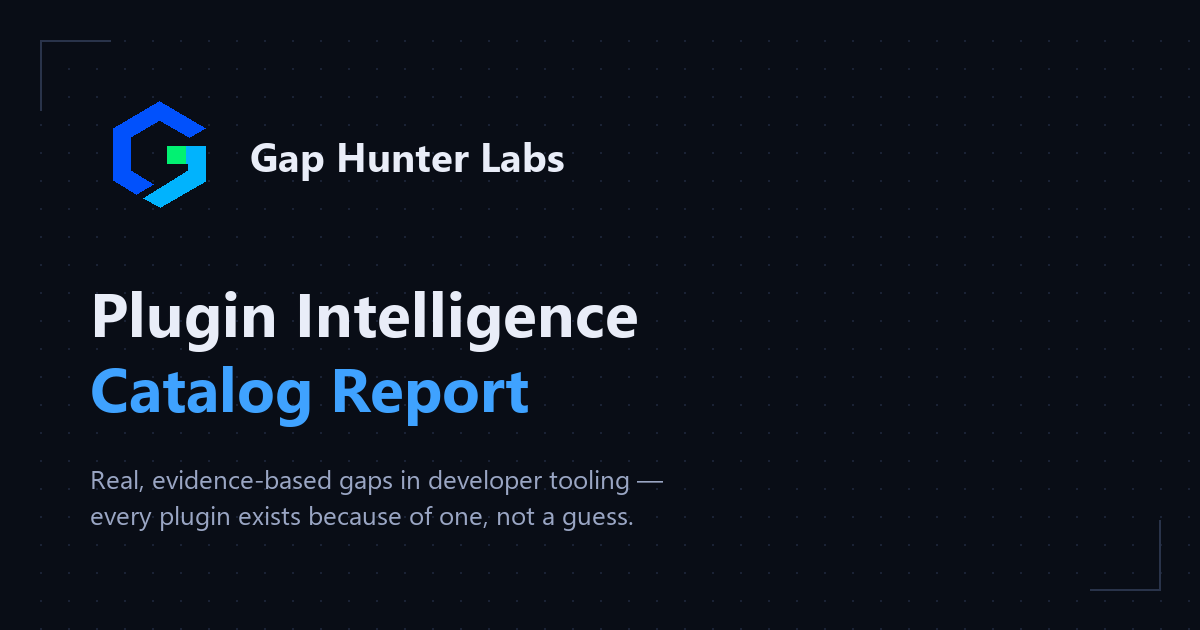
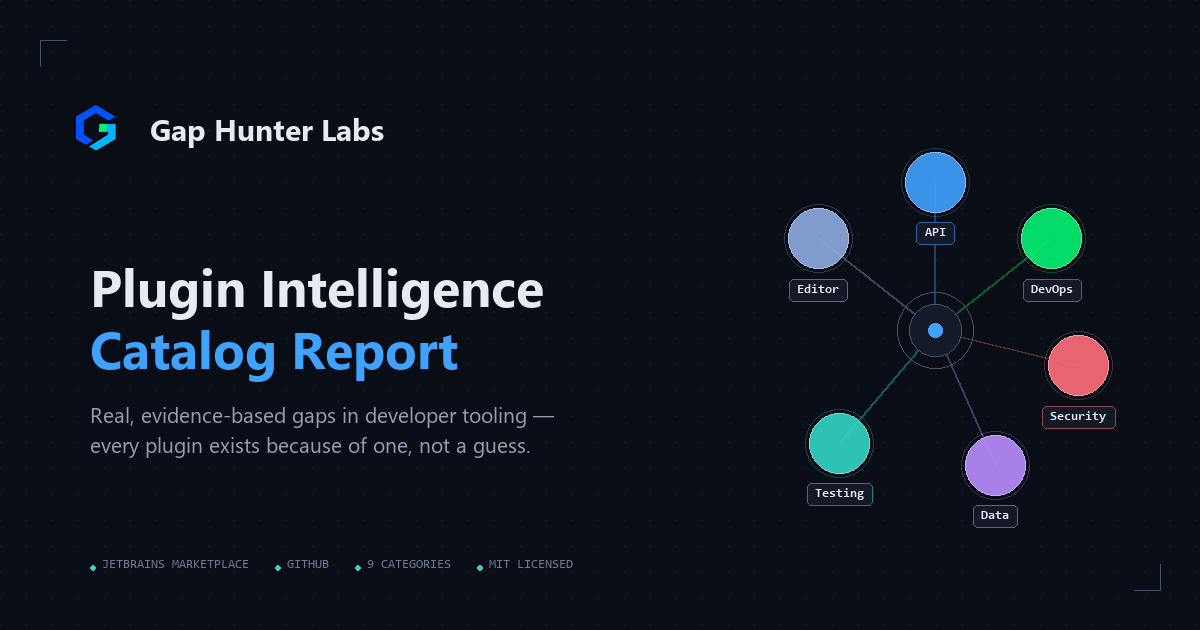
Redesign og-image.png -- fill the empty half seen in real WhatsApp preview
User shared a real WhatsApp link-preview screenshot showing the card's
right/bottom half essentially empty -- just brand mark + headline on
the left, bare dot-grid everywhere else.

New layout, still deliberately atemporal (no live catalog numbers
baked in, same reasoning as the original 2026-08-21 image -- never
goes stale, the twice-daily catalog cron never needs to regenerate it):
- Right panel: a simplified echo of the site's own signature visual,
  the Hunting Field radial diagram (hub + 6 category nodes on spokes,
  same brand palette) -- fills the dead space with something that
  unmistakably belongs to this product rather than generic decoration.
- Bottom: a thin instrumentation-style trust-mark row (JetBrains
  Marketplace / GitHub / 9 categories / MIT licensed) in the mono face,
  echoing the real site's .tele-row/topbar language. Category count is
  structural, not a moving stat, so it's safe to bake in.
- Corner-frame marks matching the site's own .corner-frame device.
- Logo mark: pastes the REAL rasterized brand mark (apple-touch-icon.png,
  correct hexagon-G geometry) instead of hand-drawn polygons -- a first
  attempt at redrawing the mark from scratch produced a distorted
  diamond shape, not the real logo.

Generator script saved to pipeline/assets/build_og_image.py this time
(the original image's generator was NOT persisted anywhere, confirmed
missing when this round started) so it doesn't need to be rebuilt from
[…]

diff --git a/pipeline/assets/build_og_image.py b/pipeline/assets/build_og_image.py
@@ -1,0 +1,155 @@
+"""Regenerate og-image.png (1200x630) with the empty bottom-right space
+filled -- 2026-08-23, explicit user request from a real WhatsApp preview
+screenshot showing the card mostly empty on the right/bottom half.
+
+Design choices (deliberately atemporal, same discipline as the original
+2026-08-21 image -- no live catalog numbers baked in, so it never goes
+stale and the twice-daily catalog cron never needs to touch it):
+- Right side: a simplified echo of the site's own signature visual (the
+  "Hunting Field" radial diagram) -- a hub + 6 category nodes on spokes,
+  same palette as the real site. Reads as "this brand" instantly to
+  anyone who's already seen the real page, and fills the dead space with
+  something that belongs to this product instead of generic decoration.
+- Bottom: a thin instrumentation-style trust-mark row (JetBrains
+  Marketplace / GitHub / category count) in the mono face, echoing the
+  site's own .tele-row/topbar language -- no specific numbers, just
+  category COUNT (9) which is structural, not a moving stat.
+- Corner-frame marks (top-left, bottom-right) matching the site's own
+  .corner-frame device.
+"""
+from PIL import Image, ImageDraw, ImageFont
+import math
+
+# Real brand mark, rasterized correctly in an earlier round (matches
+# the site's own SVG logo geometry) -- reused here via resize/paste
+# instead of hand-redrawing polygons, which produced a distorted
+# diamond-ish shape rather than the real hexagon G on the first pass.
+LOGO_SRC = Image.open('apple-touch-icon.png').convert('RGBA')
+
+W, H = 1200, 630
+BG = (9, 13, 22)
+BORDER = (30, 38, 54)
+TEXT = (230, 234, 242)
+TEXT_DIM = (150, 160, 180)
+TEXT_FAINT = (110, 122, 148)
+ACCENT = (63, 162, 255)
+GREEN = (2, 241, 114)
+CYAN = (1, 179, 253)
+PURPLE = (185, 140, 255)
+RED = (255, 110, 122)
+AMBER = (255, 176, 32)
+TEAL = (52, 213, 199)
+
+img = Image.new('RGB', (W, H), BG)
+d = ImageDraw.Draw(img, 'RGBA')
+
+FONTS = 'C:/Windows/Fonts/'
+def font(path, size): return ImageFont.truetype(FONTS + path, size)
+
+f_brand = font('segoeuib.ttf', 30)
+f_h1 = font('segoeuib.ttf', 52)
+f_h1b = font('segoeuib.ttf', 52)
+f_sub = font('segoeui.ttf', 21)
+f_mono_sm = font('consolab.ttf', 15)
+f_mono_xs = font('consola.ttf', 13)
+f_node = font('consolab.ttf', 13)
+
+# ---- background dot-grid texture (matches .hero-dotgrid on the real site) ----
+step = 26
+for gx in range(0, W, step):
+    for gy in range(0, H, step):
+        d.ellipse([gx-1, gy-1, gx+1, gy+1], fill=(255,255,255,10))
+
+# ---- corner-frame marks ----
+def corner(x, y, dx, dy, size=26, color=(70,82,110,255)):
+    d.line([x, y, x + dx*size, y], fill=color, width=1)
+    d.line([x, y, x, y + dy*size], fill=color, width=1)
+
+corner(40, 40, 1, 1)
+corner(W-40, H-40, -1, -1)
+
+# ---- logo mark: paste the REAL rasterized brand mark, resized ----
+def draw_logo(cx, cy, s):
+    size = int(s)
+    resized = LOGO_SRC.resize((size, size), Image.LANCZOS)
+    img.paste(resized, (int(cx - size/2), int(cy - size/2)), resized)
+
+draw_logo(96, 130, 84)
+d.text((150, 108), 'Gap Hunter Labs', font=f_brand, fill=TEXT)
+
+# ---- headline ----
+d.text((90, 250), 'Plugin Intelligence', font=f_h1, fill=TEXT)
+d.text((90, 312), 'Catalog Report', font=f_h1b, fill=ACCENT)
+
+# ---- subtitle ----
+sub_lines = [
+    'Real, evidence-based gaps in developer tooling —',
+    'every plugin exists because of one, not a guess.',
+]
+sy = 400
+for line in sub_lines:
+    d.text((90, sy), line, font=f_sub, fill=TEXT_DIM)
+    sy += 30
+
+# ---- bottom trust-mark row (mono, instrumentation style) ----
+trust_y = 560
+trust_items = ['JETBRAINS MARKETPLACE', 'GITHUB', '9 CATEGORIES', 'MIT LICENSED']
+tx = 90
+for i, item in enumerate(trust_items):
+    d.ellipse([tx, trust_y+5, tx+5, trust_y+10], fill=TEAL)
+    d.text((tx+12, trust_y-2), item, font=f_mono_xs, fill=TEXT_FAINT)
+    bbox = d.textbbox((tx+12, trust_y-2), item, font=f_mono_xs)
+    tx = bbox[2] + 26
+
+# =====================================================================
+# Right panel: simplified Hunting Field radial diagram -- echoes the
+# real site's signature interactive element so the preview card reads
+# as unmistakably THIS product's brand, not generic dev-tool stock art.
+# =====================================================================
+hub_x, hub_y = 935, 330
+categories = [
+    ('API', ACCENT, -90),
+    ('DevOps', GREEN, -38),
+    ('Security', RED, 14),
+    ('Data', PURPLE, 66),
+    ('Testing', TEAL, 130),
+    ('Editor', (141,172,224), -142),
+]
+orbit_r = 148
+node_r = 30
+
+# spokes first (under nodes)
+for label, color, angle_deg in categories:
+    a = math.radians(angle_deg)
+    nx = hub_x + orbit_r * math.cos(a)
+    ny = hub_y + orbit_r * math.sin(a)
+    d.line([hub_x, hub_y, nx, ny], fill=color + (90,), width=2)
+
+# hub -- small mark, NOT the full raster logo (that already appears at
+# full detail top-left; repeating it at 44px would just look blurry).
+# A simple ring + solid accent dot reads as "this is the origin point"
+# without competing with the real logo.
+d.ellipse([hub_x-38, hub_y-38, hub_x+38, hub_y+38], outline=(70,82,110,255), width=1)
+d.ellipse([hub_x-26, hub_y-26, hub_x+26, hub_y+26], fill=(20,26,40,255), outline=(70,82,110,255), width=1)
+d.ellipse([hub_x-7, hub_y-7, hub_x+7, hub_y+7], fill=ACCENT)
+
+# nodes
+for label, color, angle_deg in categories:
+    a = math.radians(angle_deg)
+    nx = hub_x + orbit_r * math.cos(a)
+    ny = hub_y + orbit_r * math.sin(a)
+    # outer ring
+    d.ellipse([nx-node_r-4, ny-node_r-4, nx+node_r+4, ny+node_r+4], outline=color+(70,), width=1)
+    # sphere fill (simple radial-ish via 2 ellipses)
+    d.ellipse([nx-node_r, ny-node_r, nx+node_r, ny+node_r], fill=color+(230,))
+    d.ellipse([nx-node_r, ny-node_r, nx+node_r, ny+node_r], outline=(230,234,242,120), width=1)
+    # label tag below node
+    bbox = d.textbbox((0,0), label, font=f_node)
+    tw = bbox[2]-bbox[0]
+    ty = ny + node_r + 10
+    d.rounded_rectangle([nx-tw/2-8, ty, nx+tw/2+8, ty+22], radius=5, fill=(20,26,40,235), outline=color+(140,), width=1)
+    d.text((nx-tw/2, ty+4), label, font=f_node, fill=TEXT)
+
+out_path = 'og-image.png'
+img.save(out_path, 'PNG', optimize=True)
+print('saved', out_path, img.size)
